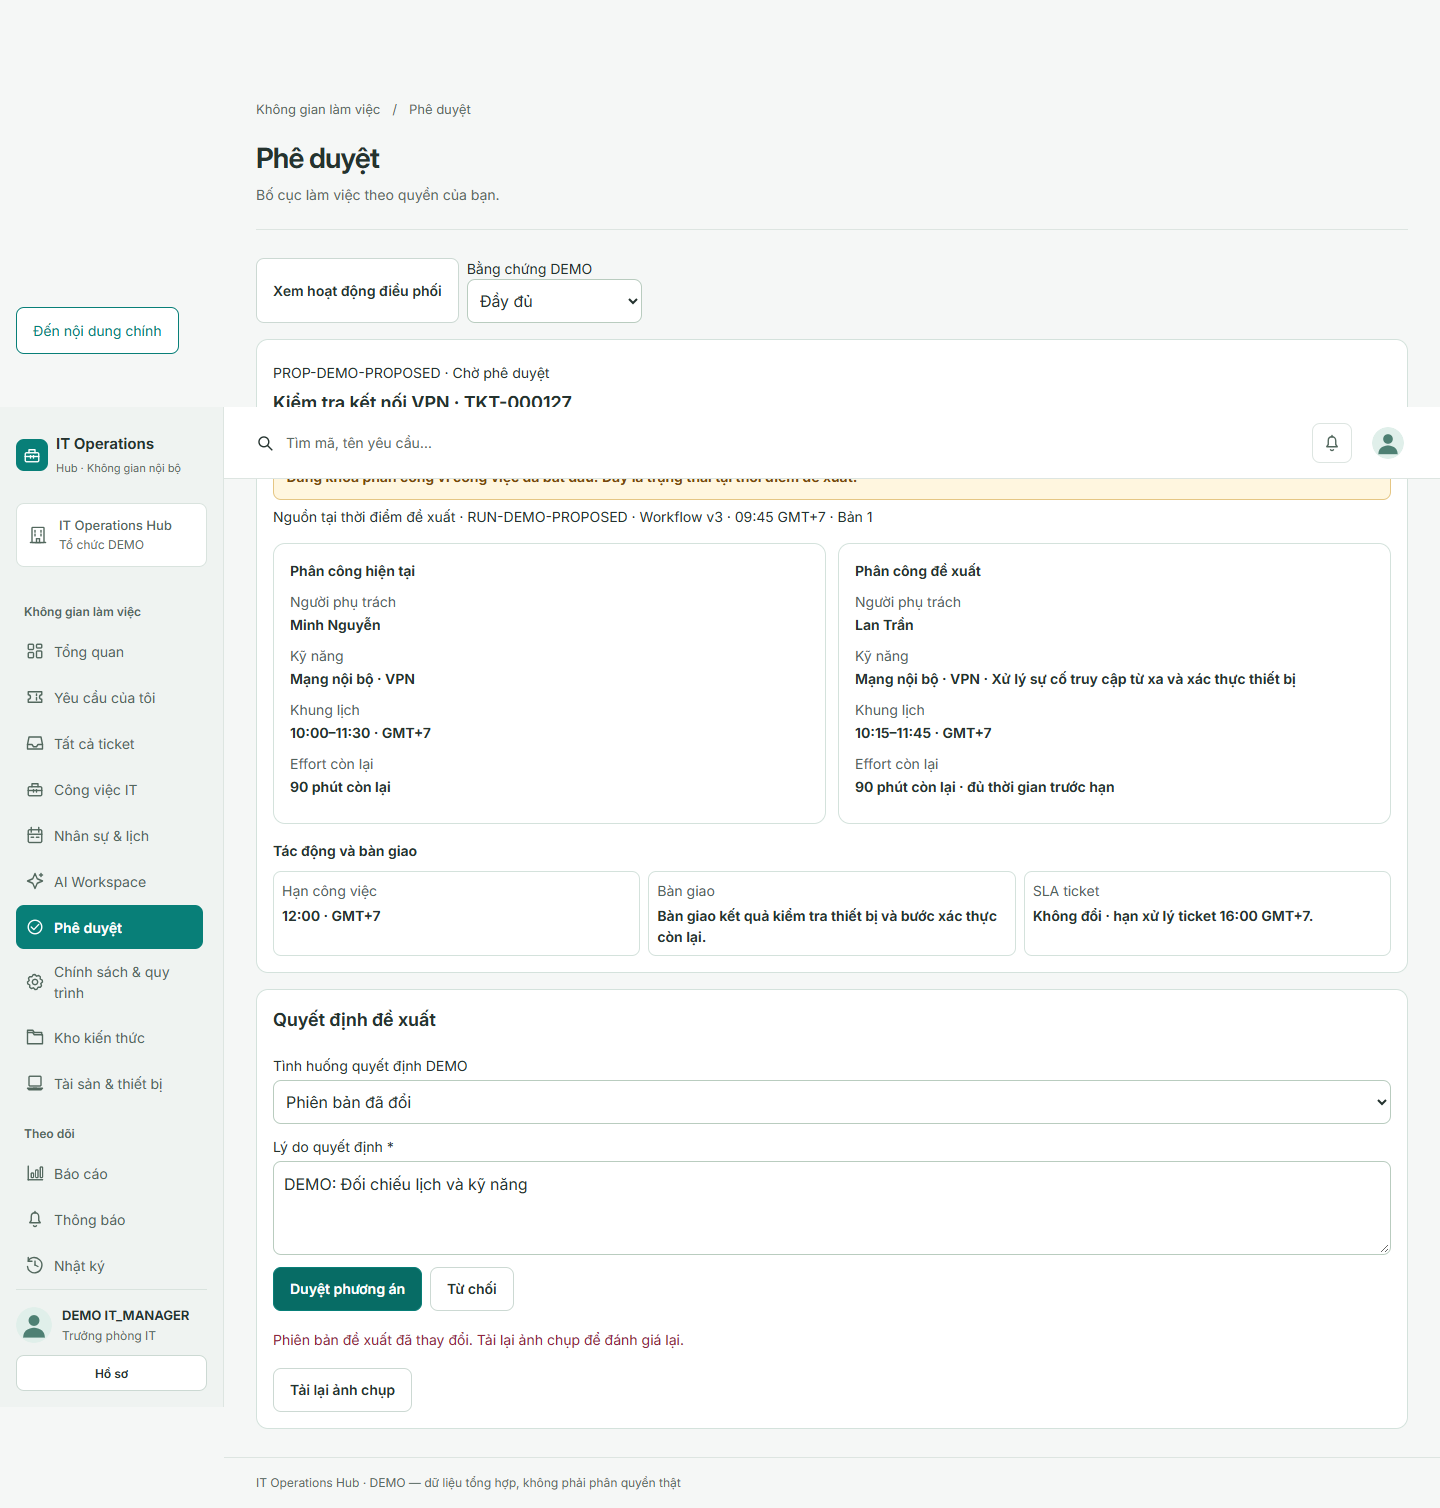
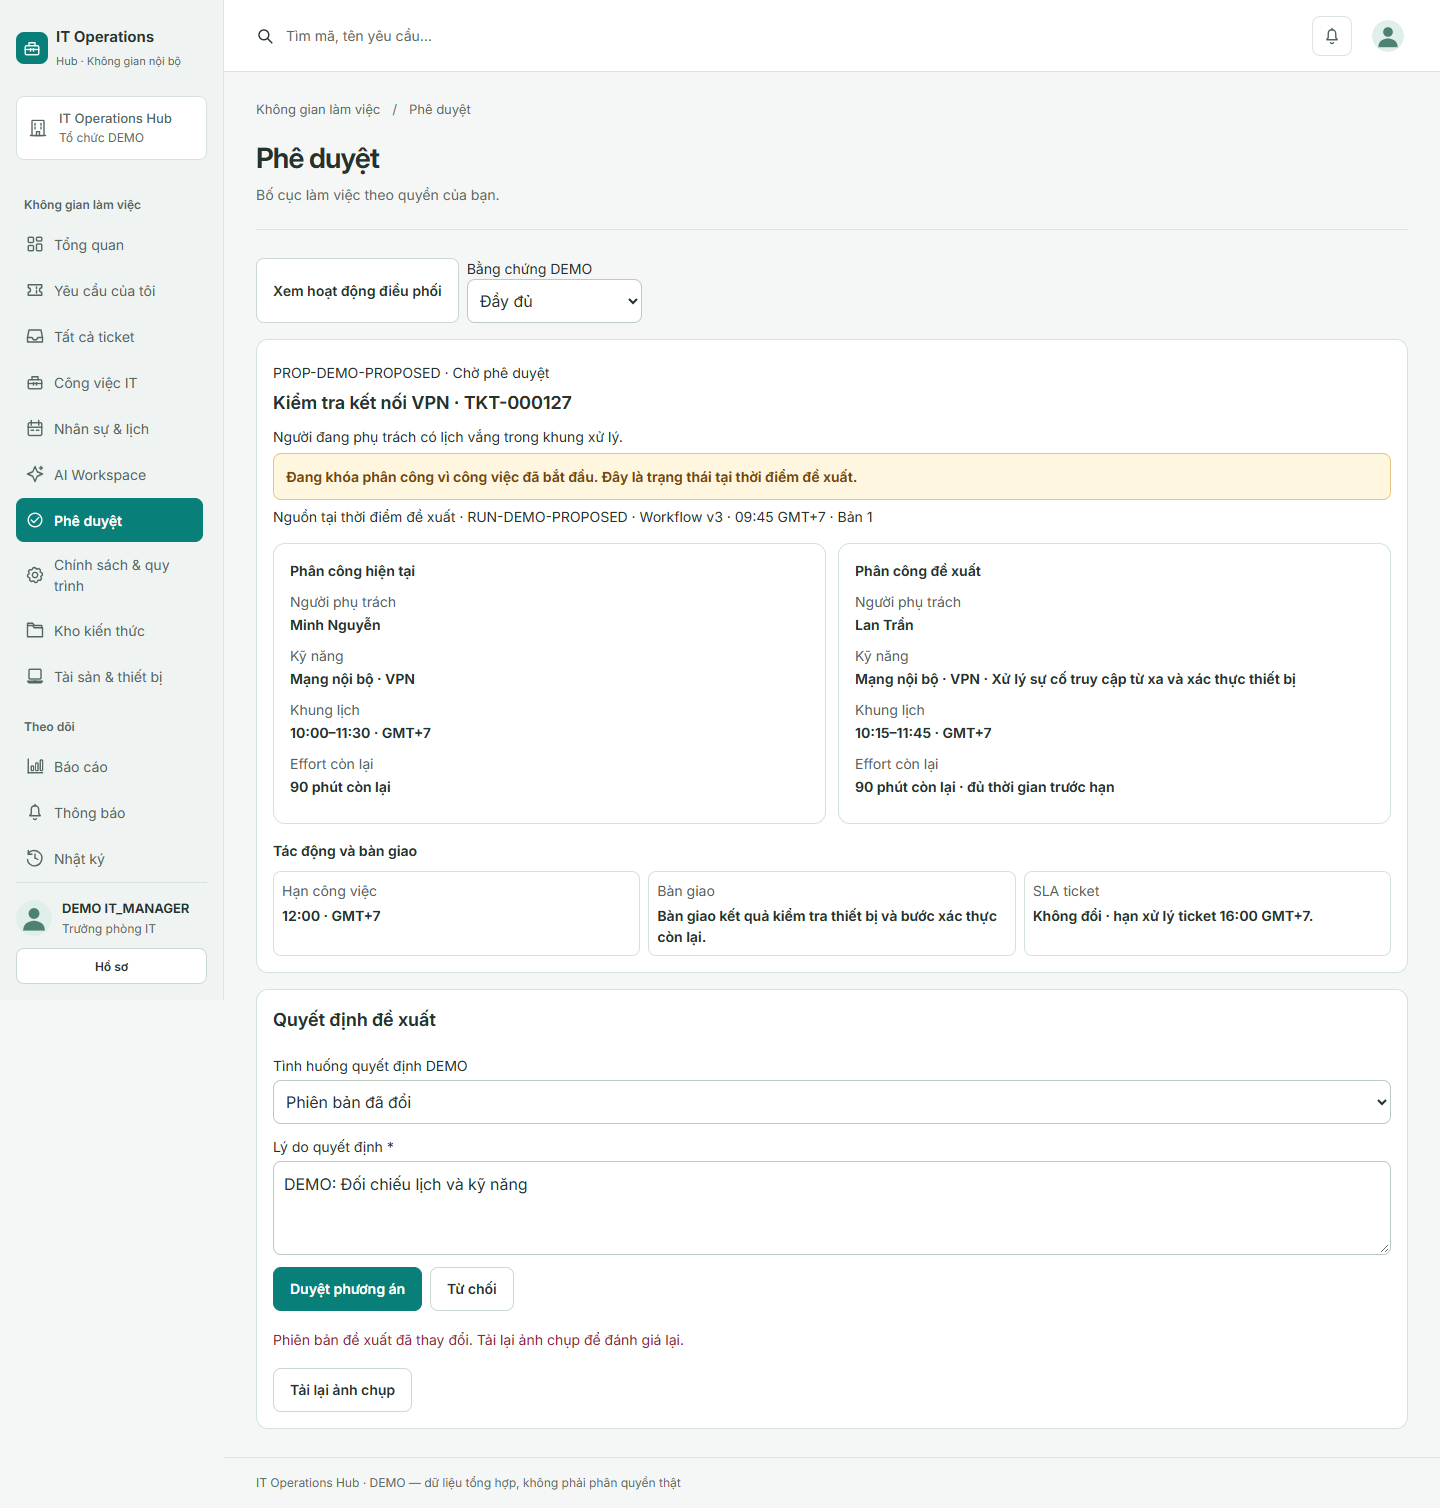
docs(delivery): FE-11.02 record verification and joint review

diff --git a/src/frontend/e2e/approval-decisions.spec.ts b/src/frontend/e2e/approval-decisions.spec.ts
@@ -131,6 +131,7 @@ for (const ref of ["ai-approval", "ai-states"]) {
         ["reference", design],
       ] as const) {
         await target.setViewportSize({ width, height: 1000 });
+        await target.evaluate(() => window.scrollTo(0, 0));
         await target.screenshot({
           path: path.join(dir, `${name}-${ref}-${width}.png`),
           fullPage: true,

diff --git a/docs/implementation/workflow/task-history.md b/docs/implementation/workflow/task-history.md
@@ -5985,3 +5985,81 @@ Use Report ID `{TASK_ID}/attempt-{NN}` and anchor `task-{lowercase-task-id-with-
 
 - Next eligible task / resume step: FE-11.02 follows the successful checks under joint Parent review.
 - Eligibility / remaining prerequisite: joint PO approval and Parent PR delivery before the next Parent.
+
+<a id="task-fe-11-02-attempt-01"></a>
+
+### FE-11.02 — Attempt 01 — 2026-11-21T14:11:25.6009271+07:00
+
+#### 1. Report metadata
+
+- Format version: 1
+- Report ID: FE-11.02/attempt-01
+- Task: [task specification](../tasks/FE-11.02.md)
+- Parent / phase: FE-11 / Phase A
+- Executor: AI Agent
+- Started at: 2026-11-21T14:06:00+07:00
+- Ended at: 2026-11-21T14:11:25.6009271+07:00
+- State before / after: pending / review
+- Previous attempt / correction: initial implementation.
+
+#### 2. Scope and delivered result
+
+- Authorized objective: Record reasoned mock decisions and show execution independently from approval.
+- Delivered this attempt: Manager/Admin DEMO approval or rejection with a reason, submission-time authority/policy/version/feasibility checks, preserved input on conflict and separate explicit pending/succeeded/failed execution fixtures.
+- Incomplete scope / deviations: PO acceptance pending. See comparison for reference differences.
+
+#### 3. Changed files and key symbols
+
+| Repository-relative path | Change / key symbols | Purpose |
+| --- | --- | --- |
+| src/frontend/src/features/automation/approval-proposal.tsx and automation.css | Reason, decision actions, conflicts and results | Accessible interaction and state |
+| src/frontend/src/lib/demo/approval-decisions.ts and src/frontend/src/features/auth/session-store.ts | Version/policy/feasibility checks and execution fixtures | Session store mock transport |
+| src/frontend/e2e/approval-decisions.spec.ts | Browser decision flow and capture | Functional and visual evidence |
+| docs/implementation/tasks/FE-11.02.md and workflow records | Handoff and status | Traceability |
+
+#### 4. Acceptance results
+
+| Task criterion | Expected | Actual | Outcome | Evidence |
+| --- | --- | --- | --- | --- |
+| Scope and Parent criteria | Record reasoned mock decisions and show execution independently from approval. | Manager/Admin DEMO approval or rejection with a reason, submission-time authority/policy/version/feasibility checks, preserved input on conflict and separate explicit pending/succeeded/failed execution fixtures. | pass | [Chromium](../evidence/FE-11.02/chromium.log) |
+| DEMO boundary | Synthetic transport and no false completion | Memory-only fixtures and explicit UI state | pass | [Implementation](https://github.com/congminh1705/IT-Operation-Hub/commit/6199c2a06551adeeffc9f454528335b1057a084d) |
+| UI comparison | Desktop and mobile reference and application captures | Captured at 1440 and 390, differences documented | pass | [Comparison](../evidence/FE-11.02/comparison.md) |
+| PO visual verdict | Owner confirms implementation | Pending joint review | not-run | [Comparison](../evidence/FE-11.02/comparison.md) |
+
+#### 5. Verification results
+
+| Working directory | Exact command / manual steps | Expected | Actual / reason not run | Outcome |
+| --- | --- | --- | --- | --- |
+| src/frontend | node node_modules/vitest/vitest.mjs run | Unit regressions pass | 103 passed | pass |
+| src/frontend | node node_modules/eslint/bin/eslint.js (changed TS/TSX paths) | No lint violations | Exit 0 | pass |
+| src/frontend | node node_modules/next/dist/bin/next build | Production build and TypeScript pass | Exit 0 | pass |
+| src/frontend | node node_modules/@playwright/test/cli.js test e2e/approval-decisions.spec.ts e2e/approval-proposal.spec.ts --grep-invert 'compare proposal' with PLAYWRIGHT_USE_BUILD=1 | Flow and reference captures pass | See Chromium log | pass |
+| src/frontend | node node_modules/prettier/bin/prettier.cjs --check (changed paths) | Formatted task files | Exit 0 | pass |
+
+#### 6. Review
+
+- Type / reviewer: agent checks and reference comparison. Owner review pending with Hoang Cong Minh.
+- Findings / resolution: Decision actions follow the approved form sequence. The generic AI state specimen does not provide a dedicated stale state. Application uses an inline alert and explicit reload. PO visual verdict pending.
+
+#### 7. Remaining blockers and decisions
+
+- Blocker / affected acceptance: joint FE-11 scope and visual review remain pending PO for closure.
+- Required resolution / owner: PO.
+
+#### 8. Artifacts and evidence
+
+- Detailed task handoff: [Evidence and handoff](../tasks/FE-11.02.md#6-evidence-and-handoff).
+- Logs / screenshots / reports: [Comparison and capture index](../evidence/FE-11.02/comparison.md), [Chromium log](../evidence/FE-11.02/chromium.log).
+- Commit / build / environment: phase/a-frontend, [implementation 6199c2a06551adeeffc9f454528335b1057a084d](https://github.com/congminh1705/IT-Operation-Hub/commit/6199c2a06551adeeffc9f454528335b1057a084d). 6199c2a pushed and verified. Local Chromium against production build, synthetic DEMO only.
+
+#### 9. Execution record synchronization
+
+- Task Evidence and handoff: linked to attempt 01.
+- Execution-board task row: review, Owner PO.
+- Current context: linked to attempt 01 and Git evidence.
+- Parent state: EPIC_IN_PROGRESS, joint PO review pending.
+
+#### 10. Next step
+
+- Next eligible task / resume step: Joint PO review at http://127.0.0.1:3184/approvals, then close and raise FE-11 PR; FE-12.01 follows after merge and authorization.
+- Eligibility / remaining prerequisite: joint PO approval and Parent PR delivery before the next Parent.

diff --git a/docs/implementation/workflow/execution-board.md b/docs/implementation/workflow/execution-board.md
@@ -18,7 +18,7 @@ purpose: "Maintain the single status and owner registry for every refined execut
 
 ## 1. Scope and authority
 
-All **88 work packages are decomposed into 230 executable tasks**: **63 frontend (A), 137 decisions/services (B), 16 real integration (C), and 14 acceptance/recovery (D)**. **39 tasks are done** through FE-10.03, including all three FE-10 tasks. **One task is in review and 190 remain pending.** [FE-10 is EPIC_DONE in the package registry](../README.md#4-task-tracker). Owner is **PO** for every task. AI Agent support is documented in the workflow; the board has no Executor column.
+All **88 work packages are decomposed into 230 executable tasks**: **63 frontend (A), 137 decisions/services (B), 16 real integration (C), and 14 acceptance/recovery (D)**. **39 tasks are done** through FE-10.03, including all three FE-10 tasks. **Two tasks are in review and 189 remain pending.** [FE-10 is EPIC_DONE in the package registry](../README.md#4-task-tracker). Owner is **PO** for every task. AI Agent support is documented in the workflow; the board has no Executor column.
 
 The [package registry](../README.md#4-task-tracker) holds epic state; this board alone holds task state and PO ownership. Use the [task workflow](task-workflow.md). [Parent coverage and closure](../package-task-coverage.md) maps every parent criterion to outputs and names any external integration evidence. Package readiness means defined scope; dependencies, affected decisions and future coding authorization still gate execution.
 
@@ -70,7 +70,7 @@ All non-frontend work descends from the Phase A exit FE-18.03. Task prerequisite
 | [FE-10.02](../tasks/FE-10.02.md) | [FE-10](../06-frontend-first.md#fe-10) | Build policy scope and enable-disable confirmation | [FE-10.01](../tasks/FE-10.01.md) | PO | done |
 | [FE-10.03](../tasks/FE-10.03.md) | [FE-10](../06-frontend-first.md#fe-10) | Build coordination run timeline and recovery states | [FE-10.02](../tasks/FE-10.02.md) | PO | done |
 | [FE-11.01](../tasks/FE-11.01.md) | [FE-11](../06-frontend-first.md#fe-11) | Build proposal diff and impact detail | [FE-09.03](../tasks/FE-09.03.md), [FE-10.03](../tasks/FE-10.03.md) | PO | review |
-| [FE-11.02](../tasks/FE-11.02.md) | [FE-11](../06-frontend-first.md#fe-11) | Build approve-reject and stale decision interaction | [FE-11.01](../tasks/FE-11.01.md) | PO | pending |
+| [FE-11.02](../tasks/FE-11.02.md) | [FE-11](../06-frontend-first.md#fe-11) | Build approve-reject and stale decision interaction | [FE-11.01](../tasks/FE-11.01.md) | PO | review |
 | [FE-12.01](../tasks/FE-12.01.md) | [FE-12](../06-frontend-first.md#fe-12) | Build scoped asset list, detail and history | [FE-05.03](../tasks/FE-05.03.md) | PO | pending |
 | [FE-12.02](../tasks/FE-12.02.md) | [FE-12](../06-frontend-first.md#fe-12) | Build asset metadata create-edit forms | [FE-12.01](../tasks/FE-12.01.md) | PO | pending |
 | [FE-12.03](../tasks/FE-12.03.md) | [FE-12](../06-frontend-first.md#fe-12) | Build issue, return, repair and retire dialogs | [FE-12.02](../tasks/FE-12.02.md) | PO | pending |

diff --git a/docs/implementation/tasks/FE-11.02.md b/docs/implementation/tasks/FE-11.02.md
@@ -90,21 +90,13 @@ A future request authorizes the selected implementation (or this decision-refine
 
 ## 6. Evidence and handoff
 
-**Planning state:** no implementation attempt/report, application test, review, commit or build evidence exists for this task. Application checks are **NOT RUN**. Replace this planning statement with actual evidence when work occurs.
-
-**Report contract:** after every actual attempt or session handoff, append a report to [task history](../workflow/task-history.md#reports) using [Format version 1](../workflow/task-history.md#entry-format), preserving its ten subsections and tables. Apply the [report validation checklist](../workflow/task-history.md#report-validation-before-handoff), then update this section with the latest report and current summary. A report may end in blocked/review/in-progress; it does not imply DONE.
-
-- Latest Report ID: none; no implementation attempt yet.
-- Latest history entry: none; add the exact existing report anchor after actual work.
-- Delivered result / incomplete scope:
-- Actual changed paths / key symbols:
-- Acceptance and check summary: pass/fail/not-run; link full expected/actual results and exact commands in the report.
-- Review type / findings / resolution:
-- Remaining blockers / decisions / defects:
-- Commit/build if available:
-- Next eligible task / resume step:
-
-Keep sections 1-5 unchanged unless a justified authorized refinement is recorded. Update this handoff after every attempt, including unfinished/blocked work; retain earlier attempt reports in history. Synchronize the execution-board state/owner and current-context latest summary/history link. Do not duplicate report bodies in the board, invent evidence or mark unrelated parent/system gates passed.
+- Latest Report ID: FE-11.02/attempt-01.
+- Latest history entry: [full report](../workflow/task-history.md#task-fe-11-02-attempt-01).
+- Delivered: Manager/Admin DEMO approval or rejection with a reason, submission-time authority/policy/version/feasibility checks, preserved input on conflict and separate explicit pending/succeeded/failed execution fixtures.
+- Checks: 103 unit, 11 Chromium including two FE-11.01 behavior regressions, scoped ESLint/Prettier, TypeScript and production build passed. [Comparison and captures](../evidence/FE-11.02/comparison.md), [Chromium log](../evidence/FE-11.02/chromium.log).
+- State: review. Joint Parent functional and visual acceptance pending PO.
+- Delivery: 6199c2a pushed and verified on phase/a-frontend.
+- Next: Joint PO review at http://127.0.0.1:3184/approvals, then close and raise FE-11 PR; FE-12.01 follows after merge and authorization.
 
 > **Semantic UI states:** Follow the mandatory state-color mapping in [approved format](../../design/approved-format.md): active blue, ready/done green, waiting amber, blocked/error/overdue rose, locked/disabled gray. Use business enums and visible labels; capture task-owned evidence against the current final HTML.
 

diff --git a/docs/implementation/workflow/current-context.md b/docs/implementation/workflow/current-context.md
@@ -14,6 +14,8 @@ authority: derived
 
 ## Latest task report
 
+- [FE-11.02/attempt-01](task-history.md#task-fe-11-02-attempt-01), review. Decisions with reason, stale recovery and separate execution verified (103 unit, 11 Chromium). [Comparison](../evidence/FE-11.02/comparison.md). 6199c2a pushed and verified.
+
 - [FE-11.01/attempt-01](task-history.md#task-fe-11-01-attempt-01), review. Proposal diff and missing evidence verified (103 unit, 4 Chromium). [Comparison](../evidence/FE-11.01/comparison.md). dc4dcc7 pushed and verified.
 
 - [FE-10.01/attempt-02](task-history.md#task-fe-10-01-attempt-02), done. Workflow draft and immutable published history, with effort/DAG validation and reduced Technician projection. 103 unit and 3 Chromium passed. [Comparison](../evidence/FE-10.01/comparison.md). 8776dbc pushed and verified.
@@ -29,3 +31,9 @@ authority: derived
 - Criterion 1: workflow draft/versioning and explicit policy scope, limits and confirmation verified in FE-10.01/02.
 - Criteria 2/3: scoped activity, provenance, locks, retry, explicit approval vs execution and read-only entry verified in FE-10.03.
 - Preview: http://127.0.0.1:3175/automation/policies and http://127.0.0.1:3175/automation/activity. Parent [PR #12](https://github.com/congminh1705/IT-Operation-Hub/pull/12) merged into main at 19ac834.
+
+## Parent FE-11 joint review
+
+- FE-11.01 and FE-11.02 are in review. Registry: EPIC_IN_PROGRESS. Board: 39 done, 2 review, 189 pending.
+- Preview: http://127.0.0.1:3184/approvals. Sign in as it_manager@demo.invalid using the standard DEMO password. Try missing evidence, approve/reject with a reason, and stale/revoked/infeasible scenarios. Approval waits for a separate explicit execution result. Refresh for a fresh fixture.
+- PO functional and visual acceptance pending. Parent PR follows joint closure. FE-12.01 follows after the PR is merged and authorized.
